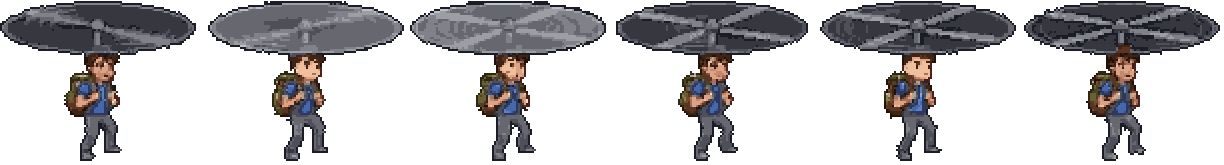
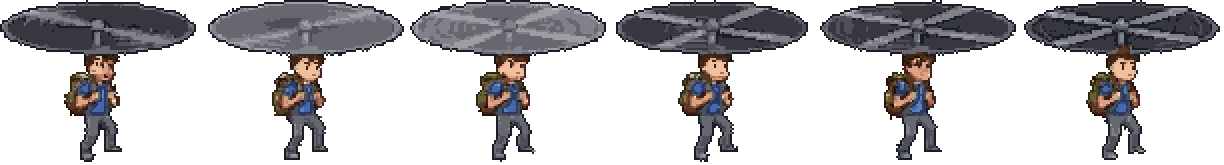
Чёткость героя на экране: шейдер пиксель-арта вместо голого линейного фильтра
shaders/pixel_art.gdshader: внутри пикселя рисунка цвет берётся из его центра,
смешение соседей — только на границе шириной в экранный пиксель. Герой
наклоняется и стоит на дробных координатах — ближайший сосед рвал бы край
лесенкой, а линейный фильтр мылил весь рисунок (кадр 144 текселя на экране
448 px уменьшается в 1,5 раза). Для перерисованных листов пиксель рисунка —
2 текселя (cell=2), для бурмобиля — 1. Сетка 2×2 в gen_hero_art теперь от
верха кадра на всех листах, чтобы шейдер в неё попадал.

Claude-Session: https://claude.ai/code/session_0136gV4z446Ram1BD5cWLTAs

diff --git a/tools/gen_hero_art.py b/tools/gen_hero_art.py
@@ -501,7 +501,12 @@ FACE_MAX = 140
 def redraw_art(src, gy, face_mode="open"):
     """Кадр src (H,W,4 uint8) -> (art, oy): рисунок на сетке CELL (h,w,4) и сдвиг сетки."""
     H, W = src.shape[:2]
-    oy = gy % CELL
+    # Сетка 2×2 — от верха кадра на всех листах: шейдер чёткости в игре
+    # (shaders/pixel_art.gdshader, cell=2) считает пиксели рисунка от края
+    # текстуры. Линия земли у ходьбы и копки (138) чётная — подошва ложится
+    # на границу клетки; у полёта (163, 129) — на тексель ниже, в воздухе
+    # этого не видно.
+    oy = 0
     h = (H - oy) // CELL
     w = W // CELL
     s = src[oy:oy + h * CELL, :w * CELL].astype(np.float64)
